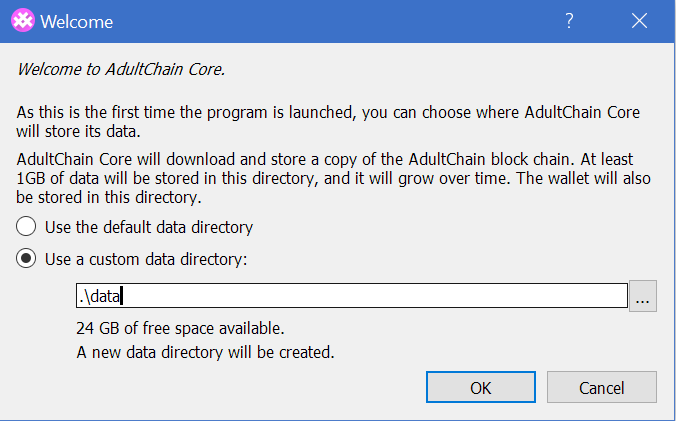
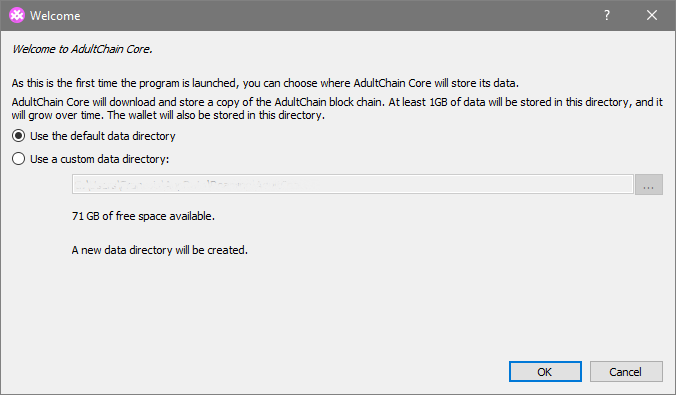
Update Windows installation guide

diff --git a/guides/Wallet_Install_Windows.md b/guides/Wallet_Install_Windows.md
@@ -20,14 +20,14 @@
 #### ii.   Extract the adultchain-qt.exe from adultchain-qt.zip
 #### iii.  Start the new adultchain-qt.exe
 #### iv.   Click More Info and then Run Anyway if you get this warning:
-![Alt text](https://github.com/AdultChain/Documentation/blob/master/images/xxx-windows-openfile.png "Wallet Open File Warning")
-#### v.    If this is the first time you have started the wallet, you will be asked to enter a custom data directory. We recommend you enter the following, this creates the data directory where you extracted the adultchain-qt.exe in part ii. It will be easier to find your wallet and config files if you know where they are:
-![Alt text](https://github.com/AdultChain/Documentation/blob/master/images/xxx-windows-data-directory-box.png "Wallet Data Directory box")
+![Alt text](../images/xxx-windows-openfile.png "Wallet Open File Warning")
+#### v.    If this is the first time you have started the wallet, you will be asked what folder you want to use to store the date. We recommend you use and note the default folder.
+![Alt text](../images/xxx-windows-data-directory-box.png "Wallet Data Directory box")
 #### vi.   If this is the first time you have started the wallet, you will be asked to Allow Access by the firewall, click Allow access:
-![Alt text](https://github.com/AdultChain/Documentation/blob/master/images/xxx-windows-firewall.png "Wallet Windows Firewall Warning")
-#### vii.  Let the wallet sync until you see this symbol
-![Alt text](https://github.com/AdultChain/Documentation/blob/master/images/xxx-wallet-sync.png "Wallet Sync Completed")
-
+![Alt text](../images/xxx-windows-firewall.png "Wallet Windows Firewall Warning")
+#### vii.a  Let the wallet sync until you see this symbol (blue check mark) at the bottom right of your wallet main screen
+![Alt text](../images/xxx-wallet-sync.png "Wallet fully synched")
+#### vii.b (Optional) If you want your wallet to sync faster, you can download and install the blockchain files. Click [here](https://gitlab.com/adultchain-project/development/bootstrap/blob/master/Bootstrap_install_guide.md) to have more informations on that method.
 #### viii. Encrypt your wallet with a long passphrase and either save it in a password manager such as keepass, or write it down and keep it safe (in a locked compartment or safe) (recommended). This passphrase is your only key to your wallet, do NOT lose it or you will lose all your XXX. Do not let anyone steal your passcode or wallet either, just like in real life!
 To encrypt the wallet, go to Settings > Encrypt wallet. Enter the passphrase, click ok. You will then have to restart the wallet and then go to Settings > Unlock Wallet and then enter the passphrase to unlock the wallet, for staking, controlling the masternode or sending your XXX.
 #### ix.   Back up your wallet.dat in case of a mistake as soon as you encrypt your wallet. Once you have encrypted the wallet, your previous backups will not work, so back it up by going to File > Backup Wallet and save the backup to more than one place. Such as a USB key or a network share.
